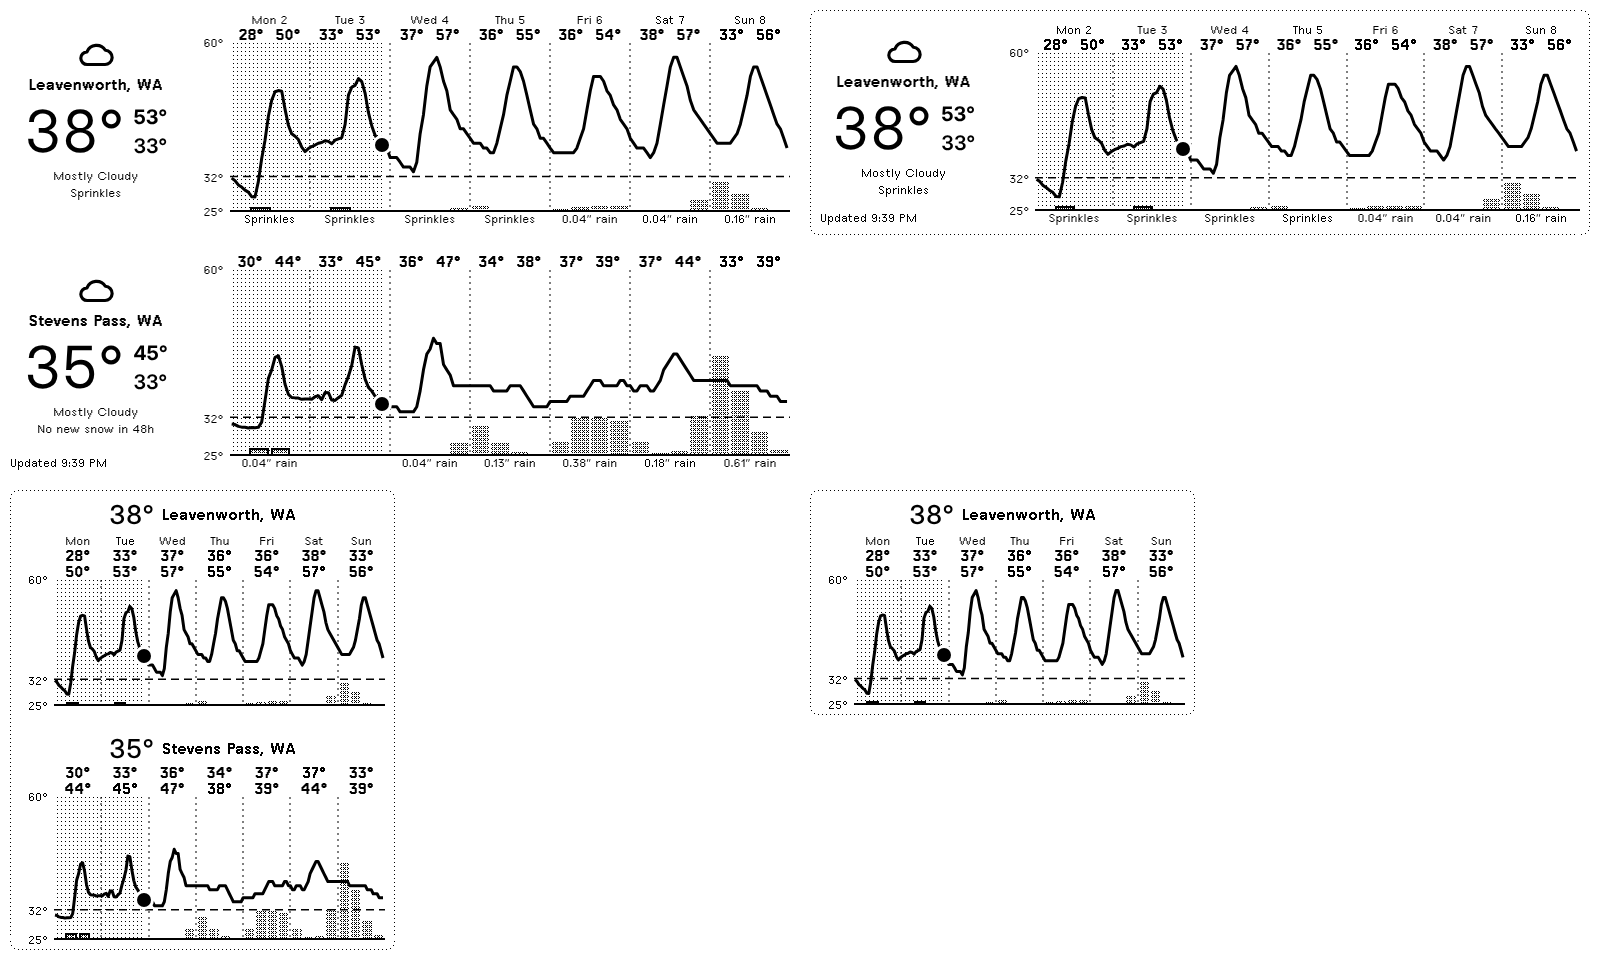
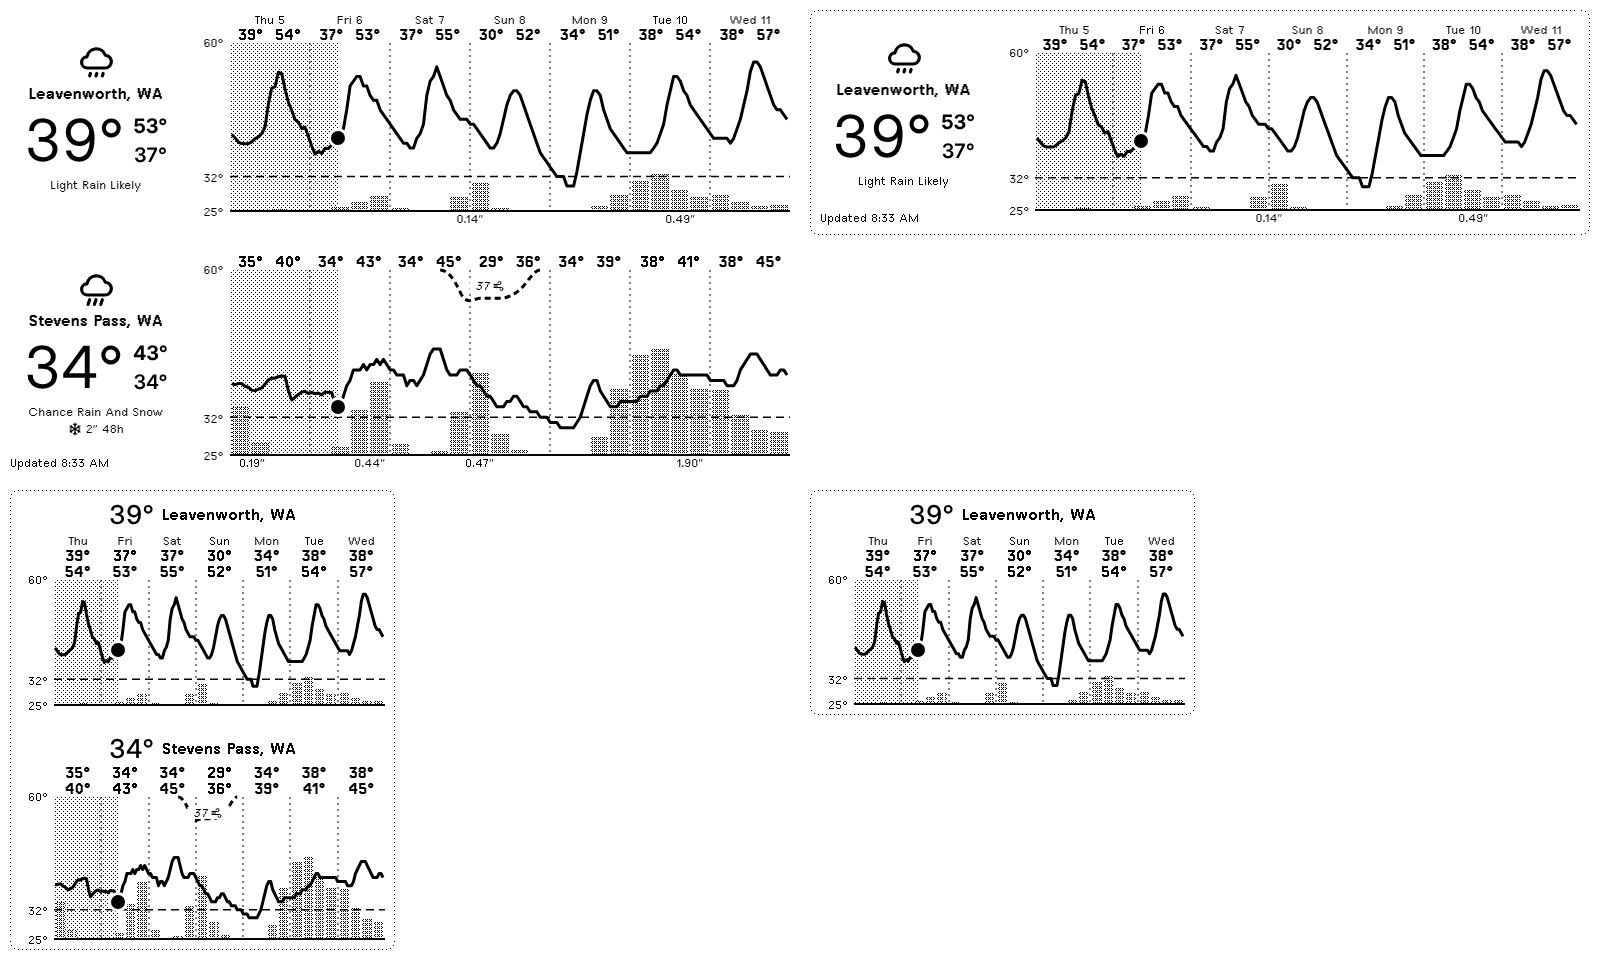
Drop today's rain total from the left column; simplify the styles
Reorganize the stylesheet by section, remove leftovers from the wind and
area mockups, scope the temperature SVG's rule so other SVGs don't need
overrides, and move the axis label positions into CSS. This clears the
TRMNL linter's inline-style warning.

Claude-Session: https://claude.ai/code/session_018zBtTfGxqR6ysBZYHYeVbJ

diff --git a/server/forecast/wind.go b/server/forecast/wind.go
@@ -55,12 +55,11 @@ func (c *Chart) fillWind(grid *GridData, days []Day, start, end, now time.Time, 
 	n := float64(len(gusts))
 	for _, r := range runs(len(gusts), func(k int) bool { return gusts[k] >= windyGustMph }) {
 		xs, ys := []float64{math.Max(0, (float64(r[0])-0.5)/n*1000)}, []float64{0}
-		peak, depth := 0.0, 0.0
+		peak := 0.0
 		for k := r[0]; k <= r[1]; k++ {
 			xs = append(xs, (float64(k)+0.5)/n*1000)
 			ys = append(ys, math.Min(100, 100*gusts[k]/fullGustMph))
 			peak = math.Max(peak, gusts[k])
-			depth = math.Max(depth, ys[len(ys)-1])
 		}
 		xs, ys = append(xs, math.Min(1000, (float64(r[1])+1.5)/n*1000)), append(ys, 0)
 		c.WindLine += smoothPath(xs, ys)
@@ -69,7 +68,7 @@ func (c *Chart) fillWind(grid *GridData, days []Day, start, end, now time.Time, 
 		if units == "si" {
 			label = fmt.Sprintf("%.0f", peak*kmhPerMph)
 		}
-		c.Gusts = append(c.Gusts, Storm{X: runCenter(r, len(gusts)), Labels: []string{label}, Depth: math.Round(depth*10) / 10})
+		c.Gusts = append(c.Gusts, Storm{X: runCenter(r, len(gusts)), Labels: []string{label}})
 	}
 }
 

diff --git a/server/forecast/storms.go b/server/forecast/storms.go
@@ -7,7 +7,6 @@ import "math"
 type Storm struct {
 	X      float64  `json:"x"`
 	Labels []string `json:"labels"`
-	Depth  float64  `json:"depth,omitempty"` // windy spells: how far down the wind band the curve dips, 0-100 %
 }
 
 // A block counts toward a storm when it gets at least this much. Lighter blocks between two wet
